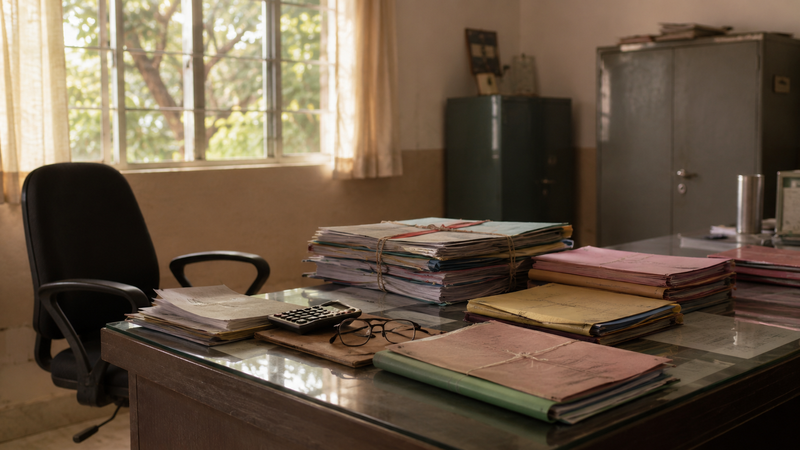
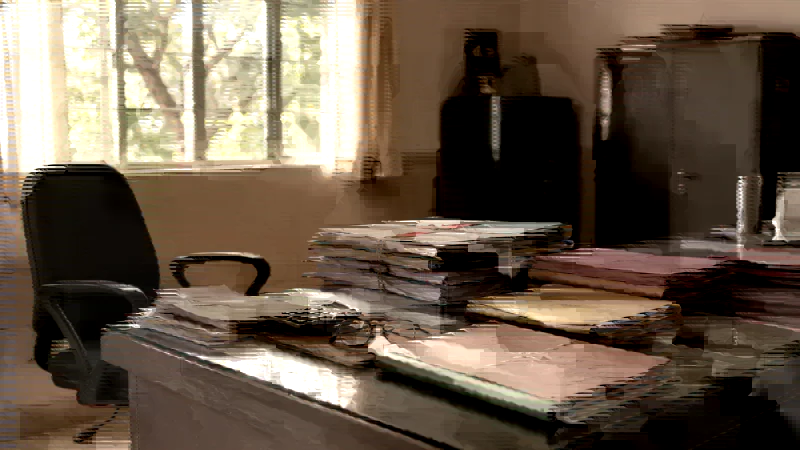
perf: optimize all imagery, fix OG social card, add PWA/mobile polish (#40)
Images: recompress every raster asset with sharp at visually-lossless
quality (verified by eye), resizing only where intrinsic resolution far
exceeds display size. Public image weight 6.0MB -> 2.0MB. Biggest wins: the
1.5MB brand PNG (a 1024px gradient logo) -> 56KB 512px square; blog heroes
~750KB -> ~75-115KB (q88); services OG card 264KB -> 99KB palette PNG.
Product UI screenshots left pristine (fidelity over the marginal ~15KB).

OG/social: the default og:image was the square 1024x1024 logo declared as
1200x630 — wrong aspect ratio, so it cropped/letterboxed in shares and was
what image search grabbed. Generate a proper 1200x630 default card (brand
mark on a matched dark ground) and point og:image / twitter:image /
primaryImageOfPage at it. The square mark stays the JSON-LD Organization logo.

Mobile/PWA polish (all were missing): apple-touch-icon (app/apple-icon.png),
web manifest with maskable icons (app/manifest.ts + /icons), and a theme-color
meta. theme-color is a single light value to match the site's forced-light
default (a prefers-color-scheme variant would mis-tint OS-dark visitors).

Copy: home hero + footer tagline -> 'Run every campus. Govern them as one.'

diff --git a/src/app/layout.tsx b/src/app/layout.tsx
@@ -1,4 +1,4 @@
-import type { Metadata } from "next";
+import type { Metadata, Viewport } from "next";
 import { IBM_Plex_Mono, IBM_Plex_Sans, Sora } from "next/font/google";
 import type { ReactNode } from "react";
 import { ScrollToTop } from "@/components/scroll-to-top";
@@ -52,7 +52,7 @@ export const metadata: Metadata = {
     locale: "en_IN",
     images: [
       {
-        url: "https://squarecampus.com/brand/squarecampus.png",
+        url: "https://squarecampus.com/og/default.png",
         width: 1200,
         height: 630,
         alt: "SquareCampus - School OS for India",
@@ -64,7 +64,7 @@ export const metadata: Metadata = {
     title: "SquareCampus | Sovereign School OS for Indian School Groups",
     description:
       "SquareCampus keeps admissions, academics, finance, communication, and operations in sync for school groups in India.",
-    images: ["https://squarecampus.com/brand/squarecampus.png"],
+    images: ["https://squarecampus.com/og/default.png"],
   },
   robots: {
     index: true,
@@ -74,6 +74,14 @@ export const metadata: Metadata = {
   other: {
     "permissions-policy": "camera=(), microphone=(), geolocation=(), interest-cohort=()",
   },
+};
+
+// Tints the mobile browser chrome to the page background. The theme script
+// defaults every visitor to light (system preference is intentionally not
+// followed), so a single light value matches the rendered default — a
+// prefers-color-scheme variant would mis-tint OS-dark visitors on the light page.
+export const viewport: Viewport = {
+  themeColor: "#faf9f6",
 };
 
 export default function RootLayout({

diff --git a/src/app/manifest.ts b/src/app/manifest.ts
@@ -1,0 +1,26 @@
+export const dynamic = "force-static";
+
+import type { MetadataRoute } from "next";
+import { SEO_CONFIG } from "@/lib/seo";
+
+/**
+ * Web app manifest: gives Android/Chrome a real home-screen icon, name, and
+ * splash colors instead of a screenshot. iOS uses app/apple-icon.png. Colors
+ * track the light default theme so the launch splash matches the page.
+ */
+export default function manifest(): MetadataRoute.Manifest {
+  return {
+    name: "SquareCampus — School OS for India",
+    short_name: "SquareCampus",
+    description: SEO_CONFIG.defaultDescription,
+    start_url: "/",
+    display: "standalone",
+    background_color: "#faf9f6",
+    theme_color: "#faf9f6",
+    icons: [
+      { src: "/icons/icon-192.png", sizes: "192x192", type: "image/png", purpose: "any" },
+      { src: "/icons/icon-512.png", sizes: "512x512", type: "image/png", purpose: "any" },
+      { src: "/icons/icon-maskable.png", sizes: "512x512", type: "image/png", purpose: "maskable" },
+    ],
+  };
+}

diff --git a/src/components/site/site-footer.tsx b/src/components/site/site-footer.tsx
@@ -52,7 +52,7 @@ export function SiteFooter() {
             <div className="space-y-6">
               <p className="section-kicker">School OS for serious institutions</p>
               <h2 className="font-display text-3xl leading-[1.15] tracking-[-0.04em] sm:text-4xl lg:text-[2.6rem]">
-                Run every campus. Govern the institution.
+                Run every campus. Govern them as one.
               </h2>
               <p className="max-w-2xl text-base leading-7 text-[color:var(--muted-foreground)]">
                 SquareCampus brings admissions, academics, finance, communication, compliance, and

diff --git a/src/app/page.tsx b/src/app/page.tsx
@@ -201,7 +201,7 @@ export default function Home() {
             <Reveal immediate className="space-y-6">
               <p className="section-kicker">Sovereign School OS for Indian school groups</p>
               <h1 className="font-display text-4xl leading-none tracking-[-0.06em] sm:text-5xl lg:text-[4.6rem]">
-                Run every campus. Govern the institution.
+                Run every campus. Govern them as one.
               </h1>
               <p className="max-w-xl text-lg leading-8 text-muted-foreground">
                 Most ERPs help staff enter data. SquareCampus helps management govern the

diff --git a/src/lib/seo.ts b/src/lib/seo.ts
@@ -33,8 +33,10 @@ export const SEO_CONFIG = {
     "SquareCampus is a School OS for Indian school groups: admissions, academics, fees, transport, communication, compliance, and analytics in one governed system of record.",
   language: "en-IN",
   openGraphLocale: "en_IN",
+  // 1200x630 social card (correct OG/Twitter aspect ratio). The square brand
+  // mark below is the JSON-LD logo, not the share image.
   ogImage: {
-    default: "https://squarecampus.com/brand/squarecampus.png",
+    default: "https://squarecampus.com/og/default.png",
     width: 1200,
     height: 630,
   },

diff --git a/src/app/(company)/school-management-system/page.tsx b/src/app/(company)/school-management-system/page.tsx
@@ -549,7 +549,7 @@ export default function SchoolManagementSystemPage() {
                 "@id": `${pageUrl}#webpage`,
                 primaryImageOfPage: {
                   "@type": "ImageObject",
-                  url: "https://squarecampus.com/brand/squarecampus.png",
+                  url: "https://squarecampus.com/og/default.png",
                 },
                 mainEntity: { "@id": `${SEO_CONFIG.baseUrl}/#org` },
               },
